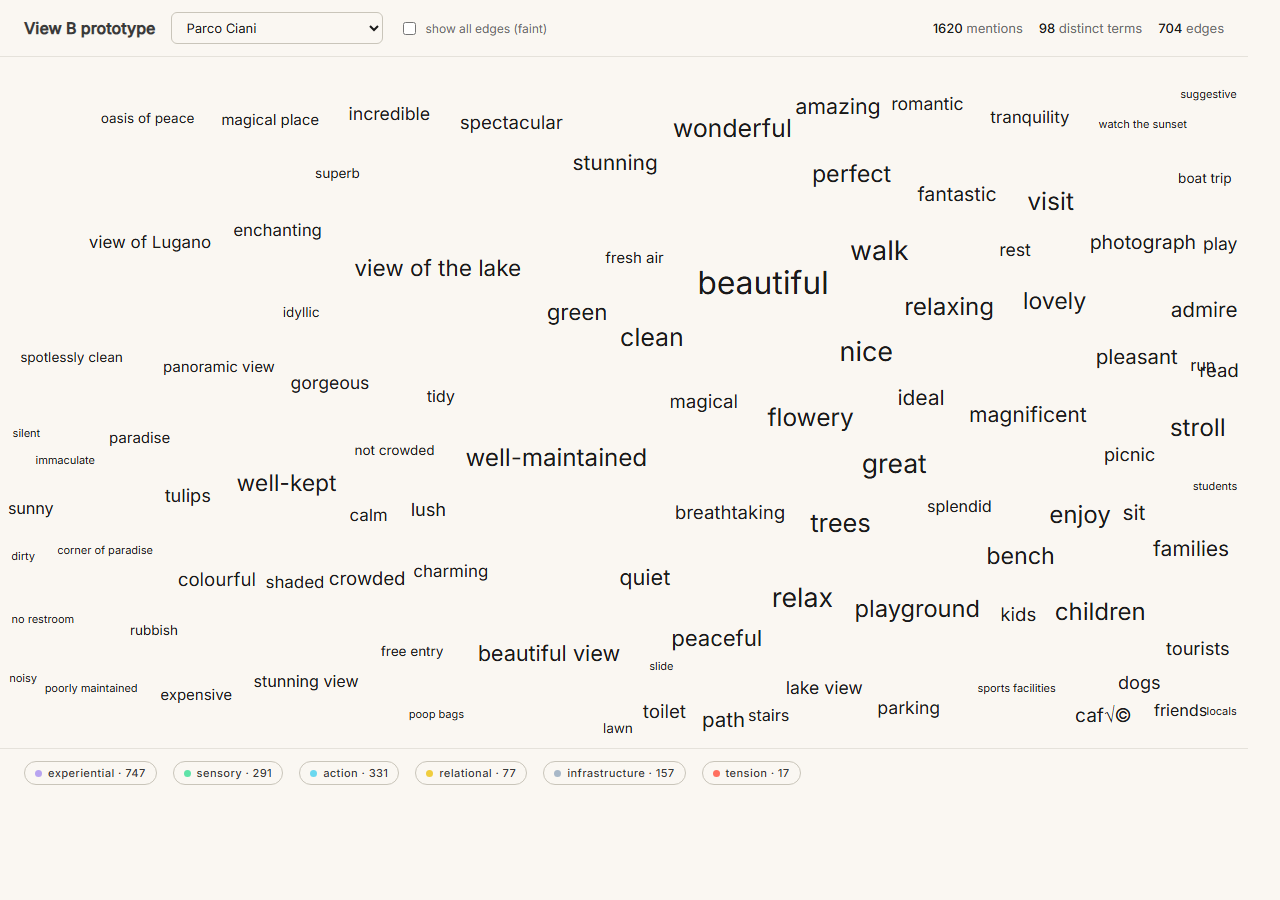
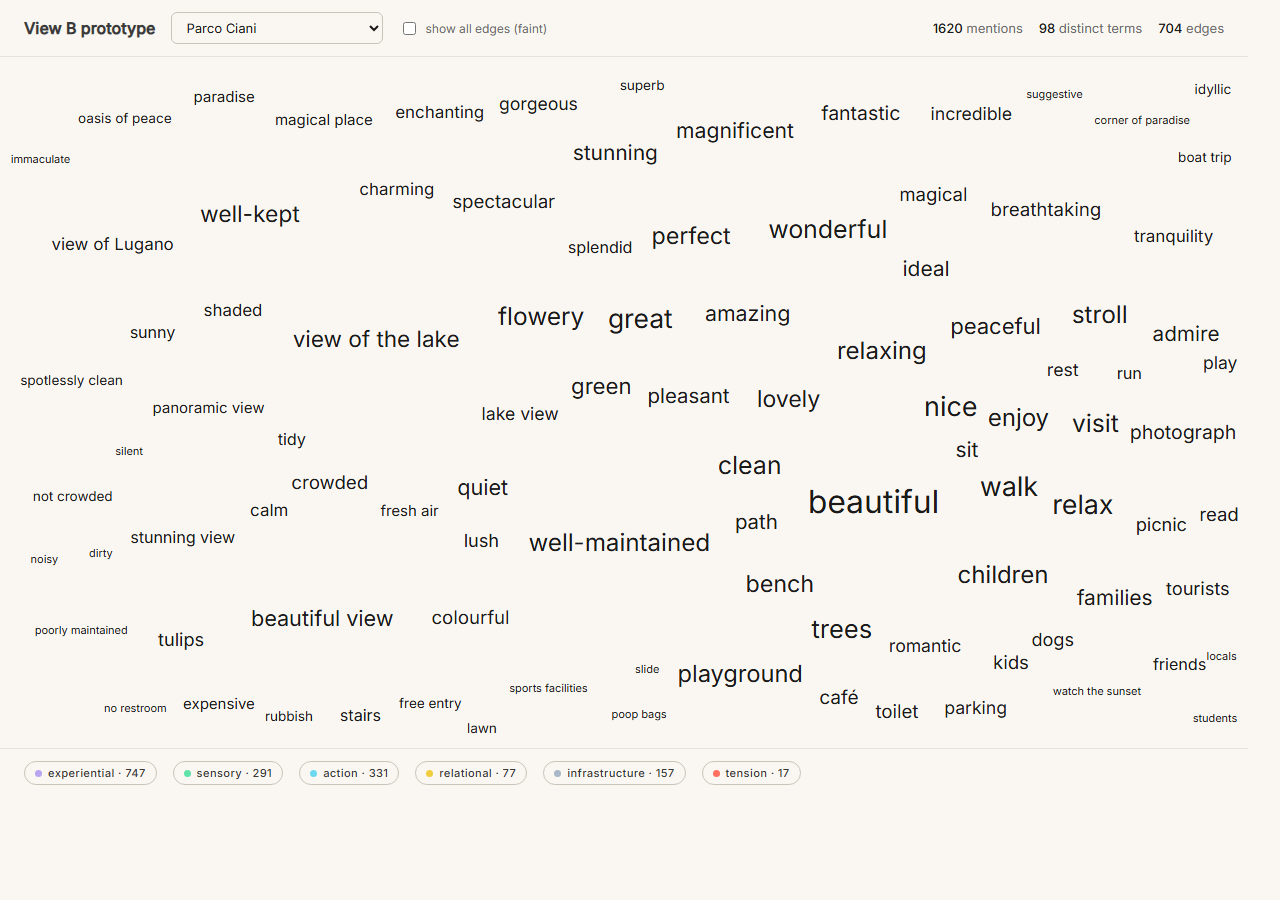
phase 3 followups: café fix, raise clusterStrength to 0.15, refresh shots
scripts/preprocess.ts now repairs UTF-8 mojibake before grouping nodes.
The pattern \"√©\" appears where a UTF-8-encoded \"é\" was stored as Latin-1
during xlsx round-tripping; we patch it (along with the other six
common italian-vowel mojibakes) on both terms and excerpts. 10
substitutions were made on the current dataset; \"caf√©\" now renders
as \"café\" with frequency 9 in Ciani's network.

DEFAULT_FORCE_PARAMS.clusterStrength bumped from 0.12 → 0.15. The 0.12
worked across all five parks but Tassino's tension cluster in
particular reads tighter at 0.15 without making Ciani look rigid.

screenshots/phase3/*.png re-captured at the new defaults.

diff --git a/scripts/preprocess.ts b/scripts/preprocess.ts
@@ -43,6 +43,24 @@ function isMissing(v: unknown): boolean {
   return false;
 }
 
+/**
+ * The source xlsx contains UTF-8 round-trip mangles where Excel stored
+ * already-encoded UTF-8 bytes as Latin-1. The pattern "√©" is the
+ * mangled form of "é". Fixing here so downstream code sees the correct
+ * glyph regardless of where the term appears (node label, edge endpoint,
+ * tooltip excerpt).
+ */
+function fixMojibake(s: string): string {
+  return s
+    .replace(/√©/g, "é")
+    .replace(/√†/g, "à")
+    .replace(/√®/g, "è")
+    .replace(/√¨/g, "ì")
+    .replace(/√≤/g, "ò")
+    .replace(/√π/g, "ù")
+    .replace(/√ß/g, "ç");
+}
+
 function slugify(name: string): string {
   return name
     .toLowerCase()
@@ -89,10 +107,15 @@ let nanCoocCount = 0;
 // xlsx is unreliable (Parco Tassino was the result of merging two parks
 // and its frequency values weren't recomputed), so we count rows instead.
 // Row count matches the `frequency` column for the four clean parks.
+let mojibakeFixCount = 0;
+
 for (const row of rows) {
   const parkName = row.park_name;
-  const term = row.term;
-  if (!parkName || !term) continue;
+  const rawTerm = row.term;
+  if (!parkName || !rawTerm) continue;
+
+  const term = fixMojibake(rawTerm);
+  if (term !== rawTerm) mojibakeFixCount++;
 
   if (!isCategory(row.category)) {
     unknownCategoryCount++;
@@ -114,19 +137,22 @@ for (const row of rows) {
       term,
       category: cat,
       frequency: 1,
-      exampleExcerpt: (row.context_excerpt ?? "").toString(),
+      exampleExcerpt: fixMojibake((row.context_excerpt ?? "").toString()),
     });
   }
 
   // Edges from co_occurring_term_* on this row.
   for (const slot of COOC_SLOTS) {
-    const partner = row[`co_occurring_term_${slot}`];
-    if (isMissing(partner)) {
-      if (typeof partner === "string" && partner.trim().toLowerCase() === "nan")
+    const rawPartner = row[`co_occurring_term_${slot}`];
+    if (isMissing(rawPartner)) {
+      if (typeof rawPartner === "string" && rawPartner.trim().toLowerCase() === "nan")
         nanCoocCount++;
       continue;
     }
-    if (typeof partner !== "string" || partner === term) continue;
+    if (typeof rawPartner !== "string") continue;
+    const partner = fixMojibake(rawPartner);
+    if (partner !== rawPartner) mojibakeFixCount++;
+    if (partner === term) continue;
 
     const a = term < partner ? term : partner;
     const b = term < partner ? partner : term;
@@ -219,6 +245,9 @@ console.log(
 );
 console.log(
   `  edges dropped because an endpoint wasn't in the park's node list: ${droppedDanglingEdges}`,
+);
+console.log(
+  `  UTF-8 mojibake substrings replaced (e.g. "√©" → "é"): ${mojibakeFixCount}`,
 );
 
 console.log("");

diff --git a/src/network/layout.ts b/src/network/layout.ts
@@ -44,7 +44,7 @@ export type ForceParams = {
 };
 
 export const DEFAULT_FORCE_PARAMS: ForceParams = {
-  clusterStrength: 0.12,
+  clusterStrength: 0.15,
   chargeStrength: 30,
   edgeStrength: 0.05,
   edgeDistance: 60,
